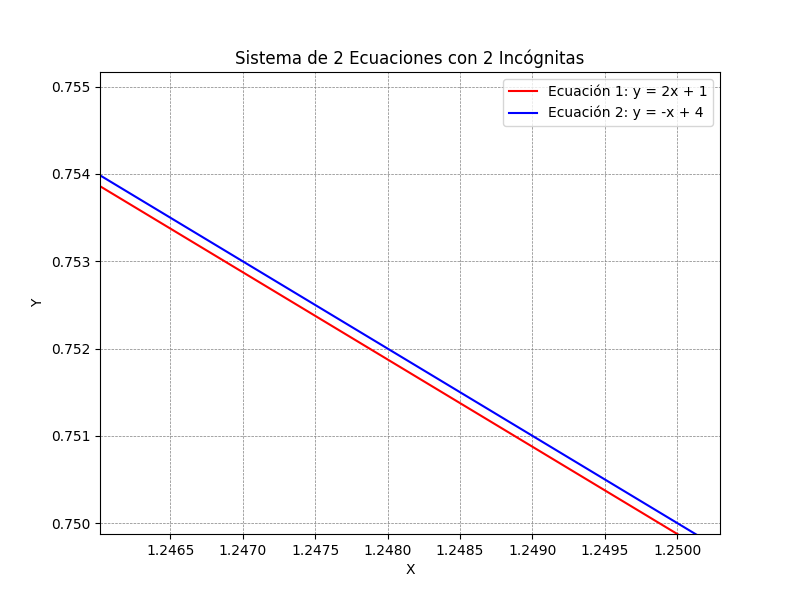
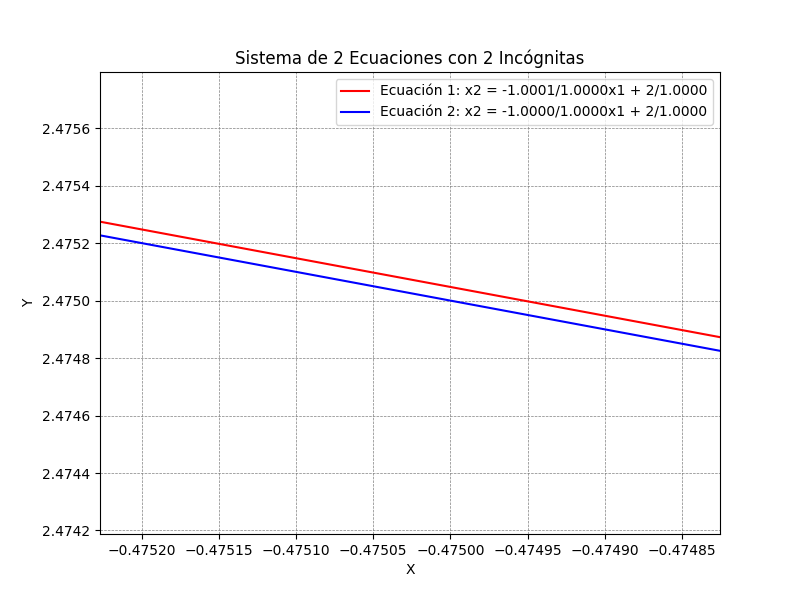
Update

diff --git a/Desafio5/grafica.py b/Desafio5/grafica.py
@@ -19,8 +19,8 @@ y2 = eq2(x)
 plt.figure(figsize=(8, 6))
 
 # Graficar las líneas
-plt.plot(x, y1, label='Ecuación 1: y = 2x + 1', color='red')
-plt.plot(x, y2, label='Ecuación 2: y = -x + 4', color='blue')
+plt.plot(x, y1, label='Ecuación 1: x2 = -1.0001/1.0000x1 + 2/1.0000', color='red')
+plt.plot(x, y2, label='Ecuación 2: x2 = -1.0000/1.0000x1 + 2/1.0000', color='blue')
 
 # Configurar límites y etiquetas
 plt.xlim(-5, 5)

diff --git a/Desafio5/README.md b/Desafio5/README.md
@@ -44,8 +44,9 @@ y2 = eq2(x)
 plt.figure(figsize=(8, 6))
 
 # Graficar las líneas
-plt.plot(x, y1, label='Ecuación 1: y = 2x + 1', color='red')
-plt.plot(x, y2, label='Ecuación 2: y = -x + 4', color='blue')
+plt.plot(x, y1, label='Ecuación 1: x2 = -1.0001/1.0000x1 + 2/1.0000', color='red')
+plt.plot(x, y2, label='Ecuación 2: x2 = -1.0000/1.0000x1 + 2/1.0000', color='blue')
+
 
 # Configurar límites y etiquetas
 plt.xlim(-5, 5)
